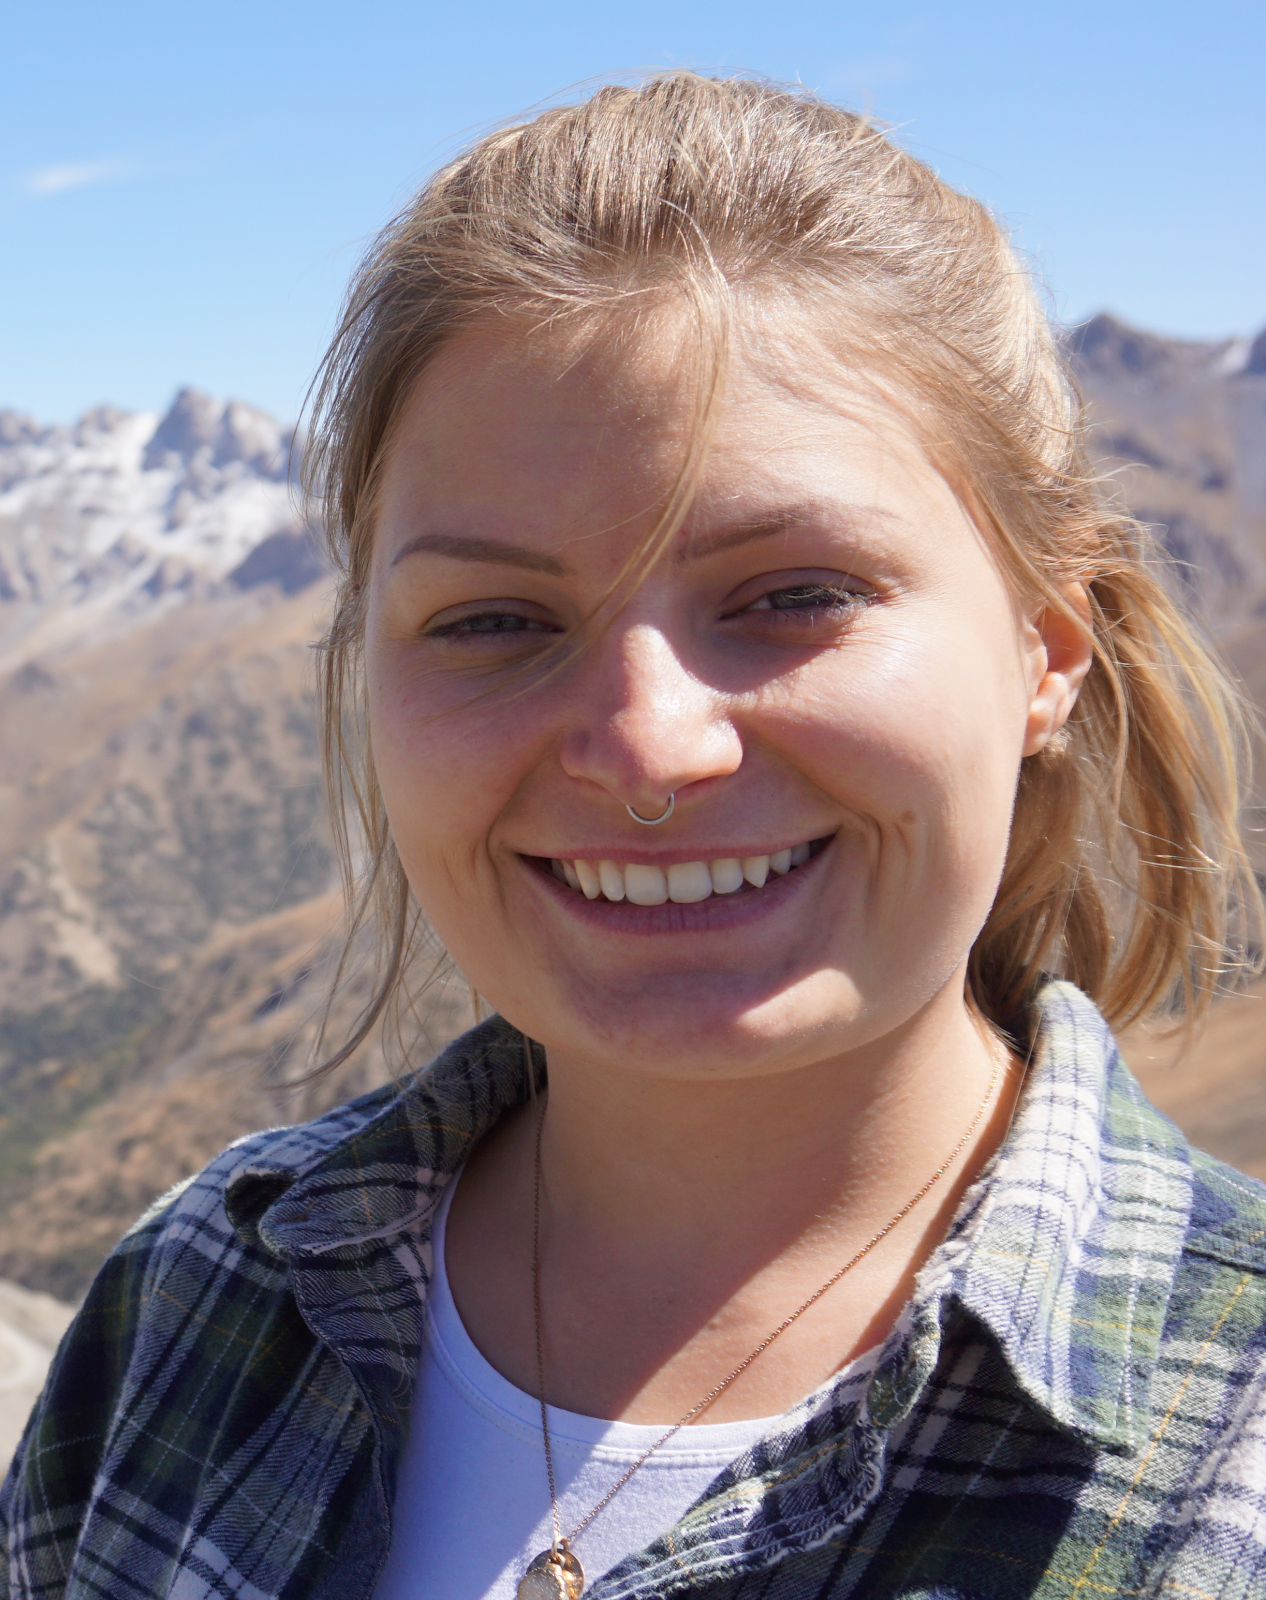
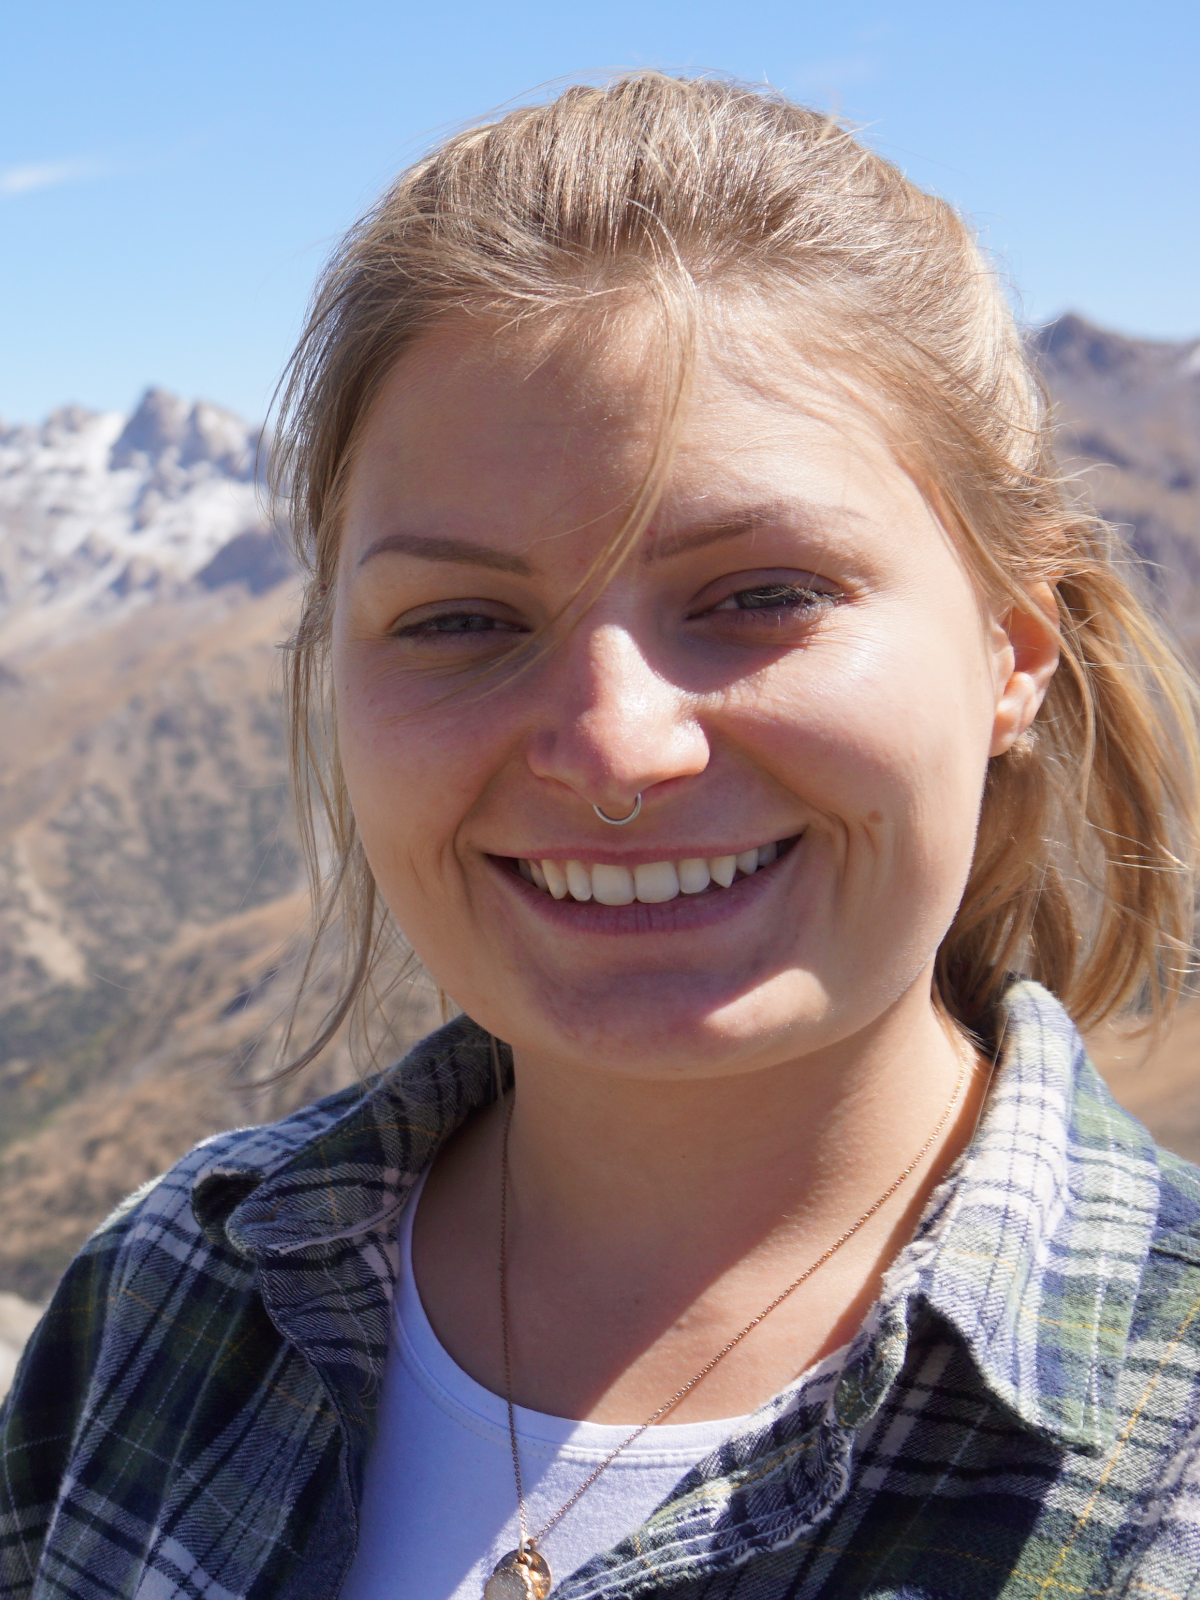
- updated images -updated image container

diff --git a/src/app/pages/about/about.component.scss b/src/app/pages/about/about.component.scss
@@ -52,6 +52,9 @@ a {
   justify-content: space-between;
   .portrait_pic {
     position: relative;
+    object-fit: contain;
+    max-width:1200px;
+    max-height:1600px;
     width: 25%;
     height: auto;
     border-radius: 0.5rem;
